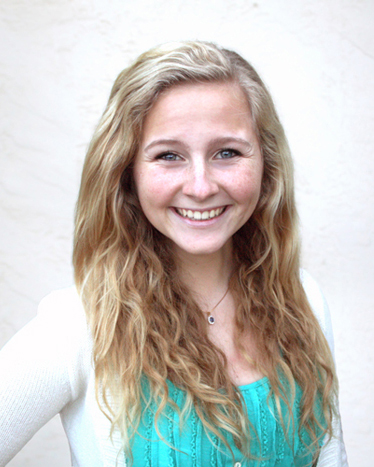
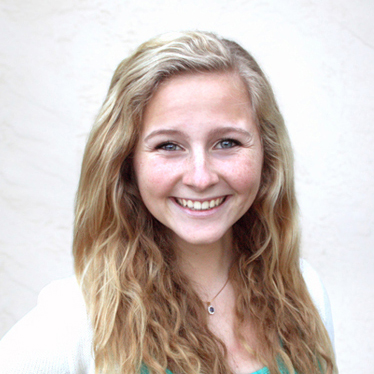
Updated after moving index

diff --git a/style/mystyle.css b/style/mystyle.css
@@ -179,15 +179,25 @@ ul.social li{
 }
 
 #me{
-    float:left;
-    margin-left: 100px;
+    margin: auto;
+    display: block;
+    text-align: center;
+    width: 40%;
+}
+#me img{
+    border-radius: 500px;
+    margin: auto;
+    width: 100%;
+    margin-top: 15px;
 }
 p.main{
-    font-size: 110%;
-    padding: 25px;
-    margin-left: 500px;
-    margin-right: 50px;
-    text-align: left;
+    display: block;
+    margin: auto;
+    font-size: 100%;
+    padding: 20px;
+    margin: 40px;
+    background: #ffffff;
+    box-shadow: 0 0 10px #164859;
 }
 
 /*------------------form style----------------------*/

diff --git a/pages/nav.html b/pages/nav.html
@@ -1,7 +1,7 @@
 
 <div id="menu">
     <div id="logo">
-        <a href="index.php">
+        <a href="../index.php">
             <img src="../photos/logosmallblue.png" alt="Michelle Nelson Photography">
         </a>
     </div>

diff --git a/pages/subnav.html b/pages/subnav.html
@@ -1,6 +1,6 @@
 <div id="menu">
     <div id="logo">
-        <a href="index.php">
+        <a href="../index.php">
             <img src="../photos/logosmallblue.png" alt="Michelle Nelson Photography">
         </a>
     </div>

diff --git a/index.php b/index.php
@@ -1,0 +1,95 @@
+<!DOCTYPE html>
+<html>
+
+<head>
+    <meta charset="utf-8"/>
+    <title>Michelle Nelson Photography</title>
+    <link rel="stylesheet" type="text/css" href="style/mystyle.css">
+    <script src='http://code.jquery.com/jquery-1.11.0.min.js'></script>
+</head> 
+
+<body>
+    <div id="menu">
+        <div id="logo">
+            <a href="index.php">
+                <img src="photos/logosmallblue.png" alt="Michelle Nelson Photography">
+            </a>
+        </div>
+        <div class="seprub"></div>
+        <ul class="a">
+            <li><a href="pages/portfolio.php">portfolio</a></li>
+            <li><a href="pages/about.php">about</a></li>
+            <li><a href="pages/contact.php">contact</a></li>
+        </ul>
+        <div class="seprub"></div>
+        <ul class="social">
+                <li><a href="http://instagram.com/whimsicolour" target="_blank">
+                    <img src="photos/socialmedia/insta.png" alt="Instagram">
+                </a></li>
+                <li><a href="https://www.behance.net/michellenelson" target="_blank">
+                    <img src="photos/socialmedia/be.png" alt="Behance">
+                </a></li>
+                <li><a href="https://www.facebook.com/michellehnelson" target="_blank">
+                    <img src="photos/socialmedia/fb.png" alt="Facebook">
+                </a></li>
+        </ul>
+    </div>
+    
+    <div id="mainhome">
+        <ul class="b">
+            <li><a href="pages/nature.php">
+               <img src="photos/homepage_icons/nature.jpg" alt="Nature">
+                <span class="text-content"><span>nature</span></span>
+             </a></li>
+            <li><a href="pages/scenic.php">
+                <img src="photos/homepage_icons/scenic.jpg" alt="Scenic">
+                <span class="text-content"><span>landscape</span></span>
+            </a></li>
+            <li><a href="pages/film.php">
+                <img src="photos/homepage_icons/film.jpg" alt="Film">
+                <span class="text-content"><span>film</span></span>
+            </a></li>
+            <li><a href="pages/bw.php">
+                <img src="photos/homepage_icons/bw.jpg" alt="Black & White">
+                <span class="text-content"><span>black & white</span></span>
+            </a></li>
+            <li><a href="pages/macro.php">
+                <img src="photos/homepage_icons/macro.jpg" alt="Macro">
+                <span class="text-content"><span>macro</span></span>
+            </a></li>
+            
+            <li><a href="pages/nature.php">
+               <img src="photos/homepage_icons/nature2.jpg" alt="Nature">
+                <span class="text-content"><span>nature</span></span>
+             </a></li>
+            <li><a href="pages/scenic.php">
+                <img src="photos/homepage_icons/scenic2.jpg" alt="Scenic">
+                <span class="text-content"><span>landscape</span></span>
+            </a></li>
+            <li><a href="pages/film.php">
+                <img src="photos/homepage_icons/film2.jpg" alt="Film">
+                <span class="text-content"><span>film</span></span>
+            </a></li>
+            <li><a href="pages/nature.php">
+               <img src="photos/homepage_icons/nature3.jpg" alt="Nature">
+                <span class="text-content"><span>nature</span></span>
+             </a></li>
+            <li><a href="pages/macro.php">
+                <img src="photos/homepage_icons/macro2.jpg" alt="Macro">
+                <span class="text-content"><span>macro</span></span>
+            </a></li>
+            <li><a href="pages/scenic.php">
+                <img src="photos/homepage_icons/scenic3.jpg" alt="Scenic">
+                <span class="text-content"><span>landscape</span></span>
+            </a></li>
+            <li><a href="pages/nature.php">
+               <img src="photos/homepage_icons/nature4.jpg" alt="Nature">
+                <span class="text-content"><span>nature</span></span>
+             </a></li>
+        </ul>
+    </div>
+
+    <script src='js/script.js'></script>
+    
+</body>
+</html>
